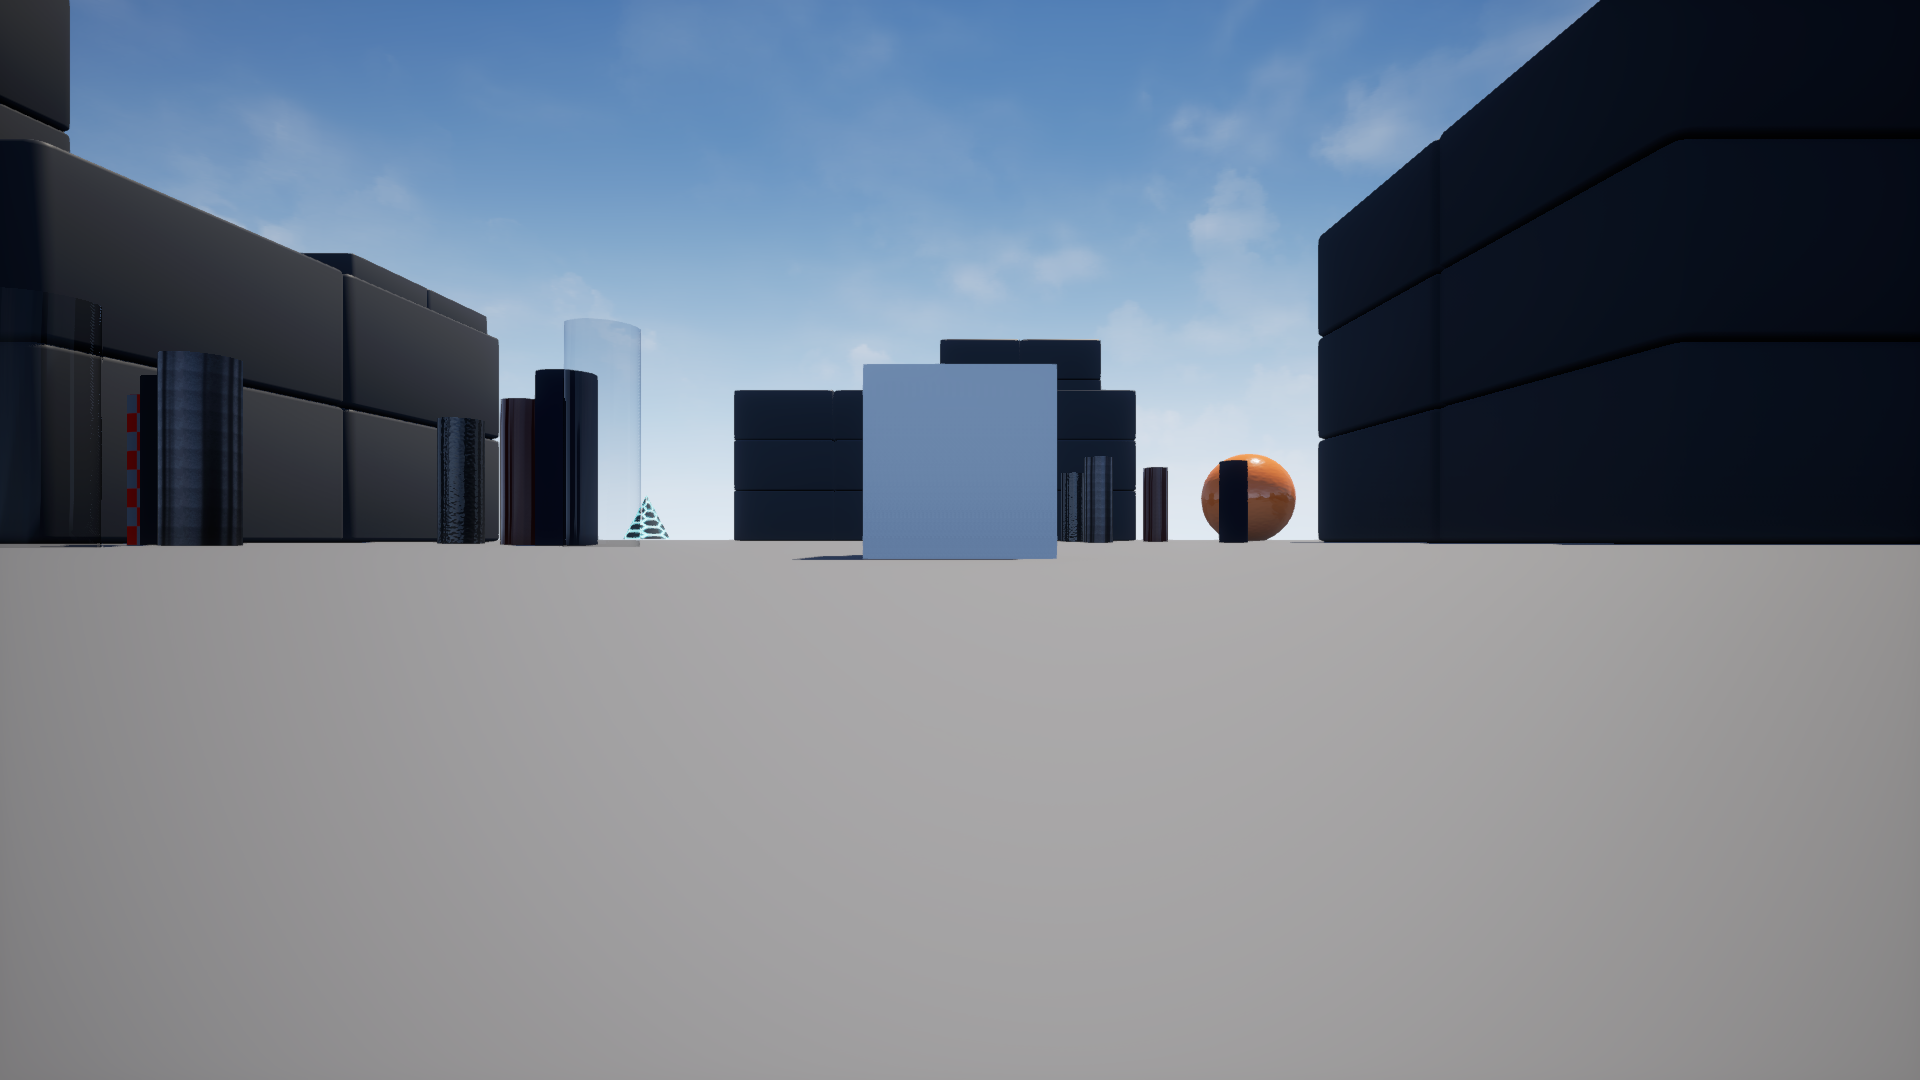
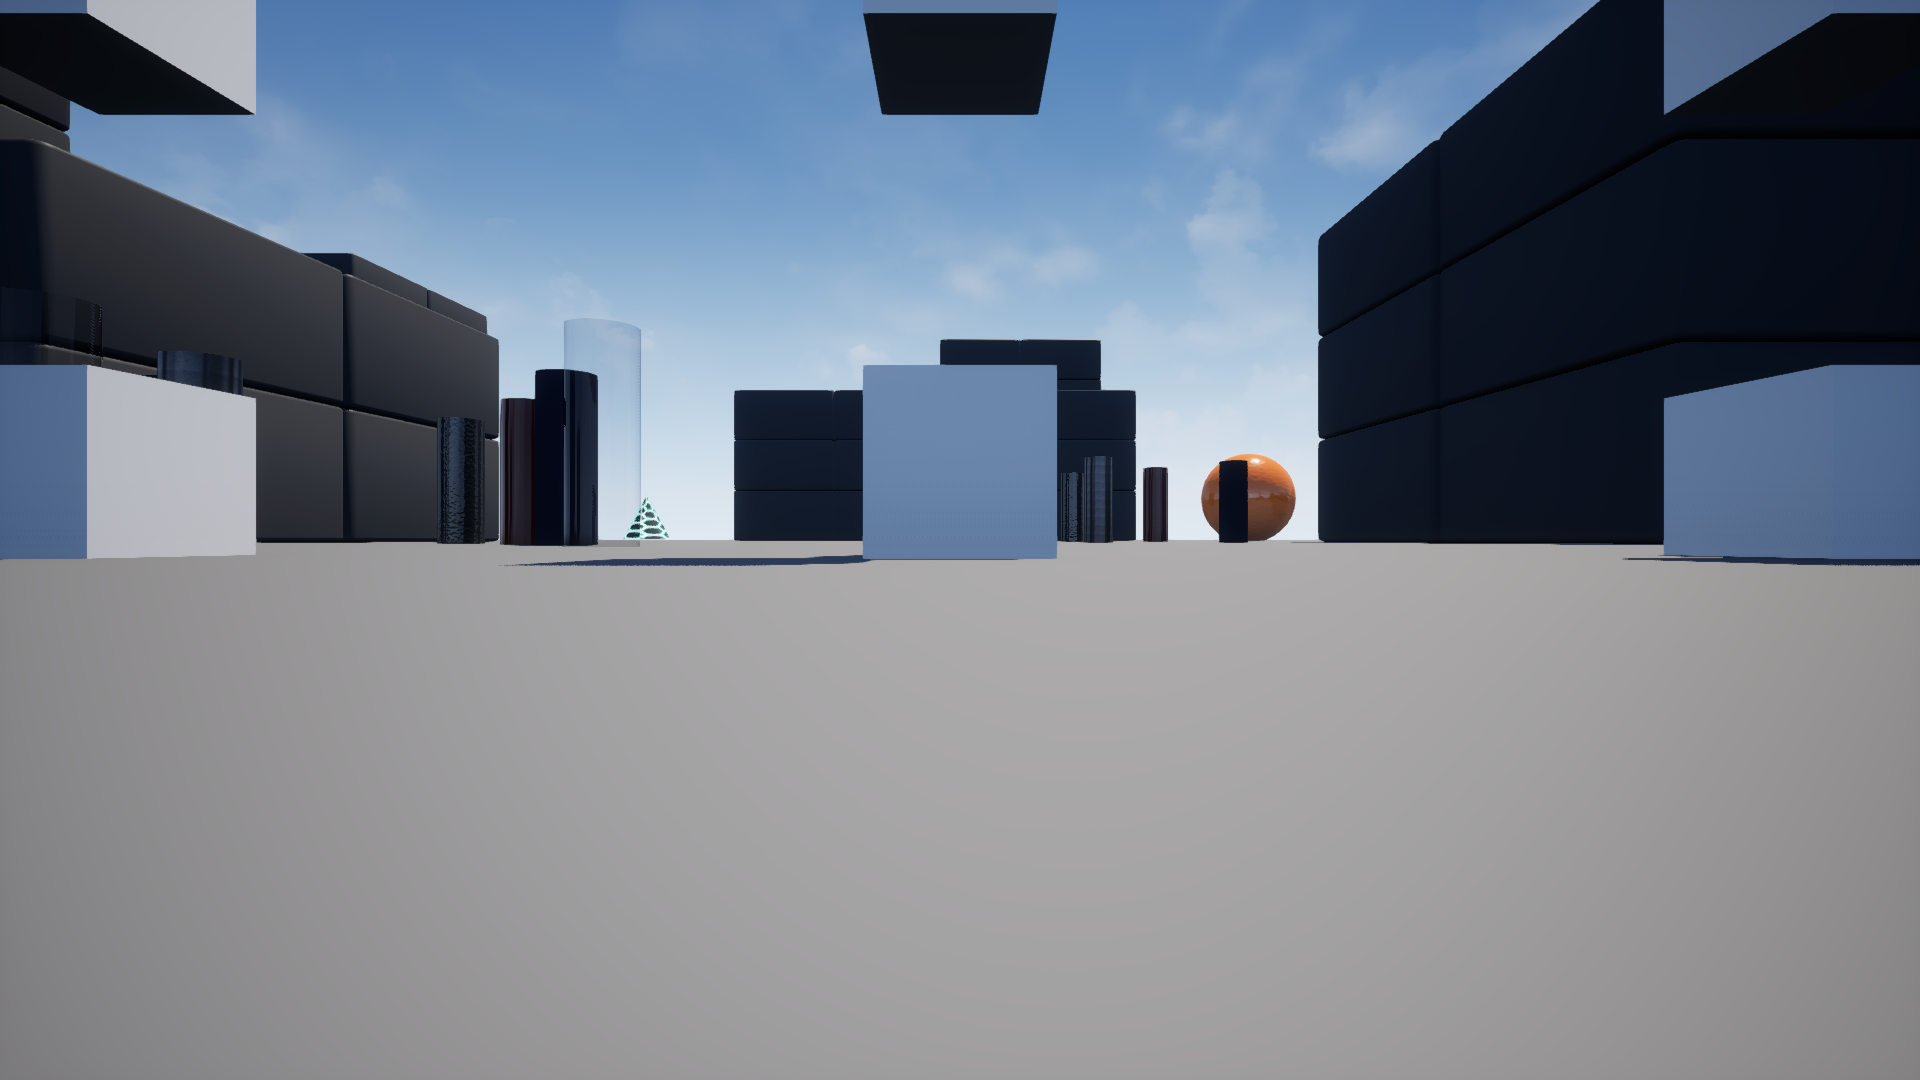
CHECKPOINT: Camera projection matrix obtained, correct 3D bounding boxes being drawn

diff --git a/PythonClient/hero/project_3D_to_2D.py b/PythonClient/hero/project_3D_to_2D.py
@@ -1,13 +1,11 @@
 #!/usr/bin/env python3
 """
-Script to retrieve scene image, print camera pose in NED world frame,
-print NED pose of object with mesh ID name StaticMeshActor_0 in world frame,
-and print the pose of the object in the camera frame (NED coordinates).
+Simple script to retrieve a scene image and project a 3D bounding box onto it using AirSim's built-in projection matrix.
 """
-import setup_path                   
+import setup_path
 import cosysairsim as airsim
 import numpy as np
-from PIL import Image
+from PIL import Image, ImageDraw, ImageFont
 
 def to_numpy_vector(v):
     return np.array([v.x_val, v.y_val, v.z_val])
@@ -20,67 +18,88 @@ def quat_to_rot_matrix(q):
         [2*(x*z - y*w),   2*(y*z + x*w),   1-2*(x*x+y*y)]
     ])
 
-def quat_conj(q):
-    w, x, y, z = q
-    return np.array([w, -x, -y, -z])
-
-def quat_mul(q1, q2):
-    w1, x1, y1, z1 = q1
-    w2, x2, y2, z2 = q2
-    return np.array([
-        w1*w2 - x1*x2 - y1*y2 - z1*z2,
-        w1*x2 + x1*w2 + y1*z2 - z1*y2,
-        w1*y2 - x1*z2 + y1*w2 + z1*x2,
-        w1*z2 + x1*y2 - y1*x2 + z1*w2
-    ])
-
 def main():
     client = airsim.MultirotorClient()
     client.confirmConnection()
+    print("Connected to AirSim multirotor client.")
 
-    # 1. Get scene image
-    req = airsim.ImageRequest("front_center", airsim.ImageType.Scene, False, False)
-    res = client.simGetImages([req], vehicle_name="Drone1")[0]
-    img1d = np.frombuffer(res.image_data_uint8, dtype=np.uint8)
-    img_rgb = img1d.reshape(res.height, res.width, 3)
-    Image.fromarray(img_rgb).save("/home/sgarimella34/multi-robot-coordination/Cosys-AirSim/PythonClient/hero/scene.png")
-    print("Scene image saved to scene.png")
+    # 1. get scene
+    resp = client.simGetImages([airsim.ImageRequest("front_center", airsim.ImageType.Scene, False, False)], vehicle_name="Drone1")[0]
+    img1d = np.frombuffer(resp.image_data_uint8, dtype=np.uint8)
+    w_img, h_img = resp.width, resp.height
+    scene = Image.fromarray(img1d.reshape(h_img, w_img, 3))
+    scene.save("scene.png")
+    print("Saved scene.png")
 
-    # 2. Print camera pose in NED world frame
+    # 2. camera pose
     cam_info = client.simGetCameraInfo("front_center", vehicle_name="Drone1")
     cam_p = to_numpy_vector(cam_info.pose.position)
-    cam_q = np.array([
-        cam_info.pose.orientation.w_val,
-        cam_info.pose.orientation.x_val,
-        cam_info.pose.orientation.y_val,
-        cam_info.pose.orientation.z_val
-    ])
-    print("Camera pose in NED world frame:")
-    print("  Position (NED):", cam_p)
-    print("  Orientation (w, x, y, z):", cam_q)
+    cam_q = np.array([cam_info.pose.orientation.w_val,
+                      cam_info.pose.orientation.x_val,
+                      cam_info.pose.orientation.y_val,
+                      cam_info.pose.orientation.z_val])
 
-    # 3. Print object pose StaticMeshActor_0 in world frame
-    obj_name = "StaticMeshActor_0"
-    obj_pose = client.simGetObjectPose(obj_name)
+    # 3. get projection matrix P (4×4 row-major)
+    P = np.array(cam_info.proj_mat.matrix, dtype=np.float64).reshape((4,4))
+    print("P =")
+    print(P)
+
+    # 4. object pose
+    obj_pose = client.simGetObjectPose("StaticMeshActor_1")
     obj_p = to_numpy_vector(obj_pose.position)
-    obj_q = np.array([
-        obj_pose.orientation.w_val,
-        obj_pose.orientation.x_val,
-        obj_pose.orientation.y_val,
-        obj_pose.orientation.z_val
+    obj_q = np.array([obj_pose.orientation.w_val,
+                      obj_pose.orientation.x_val,
+                      obj_pose.orientation.y_val,
+                      obj_pose.orientation.z_val])
+
+    # 5. compute 8 bounding-box corners in world
+    dx, dy, dz = 1.0, 1.0, 1.0
+    half = np.array([dx/2, dy/2, dz/2])
+    # user-specified NED order
+    local = np.array([
+        [-half[0], +half[1], +half[2]],
+        [-half[0], +half[1], -half[2]],
+        [-half[0], -half[1], +half[2]],
+        [-half[0], -half[1], -half[2]],
+        [+half[0], +half[1], +half[2]],
+        [+half[0], +half[1], -half[2]],
+        [+half[0], -half[1], +half[2]],
+        [+half[0], -half[1], -half[2]],
     ])
-    print(f"Object '{obj_name}' pose in NED world frame:")
-    print("  Position (NED):", obj_p)
-    print("  Orientation (w, x, y, z):", obj_q)
+    R_obj = quat_to_rot_matrix(obj_q)
+    world_corners = (R_obj @ local.T).T + obj_p
 
-    # 4. Print object pose in camera frame (NED)
+    # 6. transform corners to camera frame
     R_cam = quat_to_rot_matrix(cam_q)
-    obj_p_cam = R_cam.T.dot(obj_p - cam_p)
-    cam_q_conj = quat_conj(cam_q)
-    q_rel = quat_mul(cam_q_conj, obj_q)
-    print(f"Object '{obj_name}' pose in camera frame (NED coordinates):")
-    print("  Position (NED):", obj_p_cam)
-    print("  Orientation (w, x, y, z):", q_rel)
+    cam_corners = (R_cam.T @ (world_corners - cam_p).T).T
+    print("Corners in camera frame:")
+    for i,c in enumerate(cam_corners): print(f"  {i}: {c}")
 
-if __name__ == "__main__":
-    main()
+    # 7. project via P
+    pts_h = np.hstack([cam_corners, np.ones((8,1))])      # Nx4
+    clip = (P @ pts_h.T).T                                # Nx4
+    ndc  = clip[:,:3] / clip[:,3:4]                       # normalize
+    # NDC x,y in [-1,1]; map to pixel
+    # u = ( ndc[:,0]*0.5 + 0.5 ) * w_img
+    # v = ( 1 - (ndc[:,1]*0.5 + 0.5) ) * h_img
+
+    # correct:flip X the same way you dropped the flip on Y:
+    u = (1 - (ndc[:,0]*0.5 + 0.5)) * w_img
+    # correct: map NDC Y directly into pixel Y
+    v = (ndc[:,1]*0.5 + 0.5) * h_img
+
+    proj2d = np.stack([u,v], axis=1)
+
+    # 8. draw
+    img = scene.copy(); draw = ImageDraw.Draw(img)
+    lines = [(0,1),(0,2),(0,4),(1,3),(1,5),(2,3),(2,6),(3,7),(4,5),(4,6),(5,7),(6,7)]
+    font = ImageFont.load_default()
+    for i,j in lines:
+        p1 = tuple(proj2d[i].astype(int)); p2 = tuple(proj2d[j].astype(int))
+        draw.line([p1,p2], fill="red", width=2)
+    for i,(x,y) in enumerate(proj2d):
+        draw.text((int(x)+5,int(y)+5), str(i), fill="red", font=font)
+    img.save("scene_bbox.png")
+    print("Saved scene_bbox.png with projected box.")
+
+if __name__ == '__main__': main()

diff --git a/PythonClient/hero/get_projection_matrix.py b/PythonClient/hero/get_projection_matrix.py
@@ -1,0 +1,27 @@
+#!/usr/bin/env python3
+"""
+Simple script to fetch and display the camera projection matrix from AirSim.
+"""
+import setup_path
+import cosysairsim as airsim
+import numpy as np
+
+def main():
+    # Connect to the AirSim multirotor client
+    client = airsim.MultirotorClient()
+    client.confirmConnection()
+
+    # Retrieve camera info for 'front_center' on vehicle 'Drone1'
+    cam_info = client.simGetCameraInfo("front_center", vehicle_name="Drone1")
+
+    # The projection matrix is provided as a flat list of 16 values (row-major)
+    proj_list = cam_info.proj_mat.matrix
+    # Reshape into a 4x4 NumPy array
+    P = np.array(proj_list, dtype=float).reshape((4, 4))
+
+    # Print the projection matrix
+    print("Camera projection matrix (4×4):")
+    print(P)
+
+if __name__ == "__main__":
+    main()
